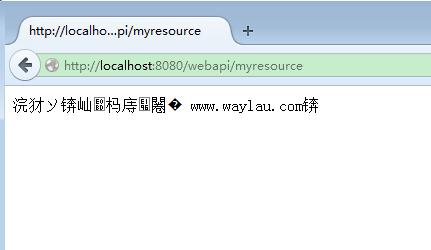
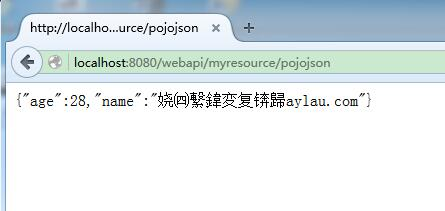
add  Encoding Format 处理编码问题

Changed region(s): [[0.0, 0.0, 1.0, 1.0]]

diff --git a/samples/encoding-format/src/main/java/com/waylau/rest/resource/MyResource.java b/samples/encoding-format/src/main/java/com/waylau/rest/resource/MyResource.java
@@ -1,0 +1,65 @@
+package com.waylau.rest.resource;
+
+import javax.ws.rs.GET;
+import javax.ws.rs.Path;
+import javax.ws.rs.Produces;
+import javax.ws.rs.core.MediaType;
+
+import com.waylau.rest.bean.MyBean;
+
+/**
+ * 根资源 (暴露在"myresource"路径)
+ * 
+ * @author waylau.com 
+ * 2015-3-1
+ */
+@Path("myresource")
+public class MyResource {
+
+	private final static String CHARSET_UTF_8 = "charset=utf-8";
+    /**
+     * 方法处理 HTTP GET 请求。返回的对象以"text/plain"媒体类型
+	 * 给客户端
+     *
+     * @return String 以 text/plain 形式响应
+     */
+    @GET
+    @Produces(MediaType.TEXT_PLAIN)
+    public String getIt() {
+        return "Got it!";
+    }
+    
+
+    /**
+     * 方法处理 HTTP GET 请求。返回的对象以"application/xml"媒体类型
+	 * 给客户端
+     *
+     * @return MyPojo 以 application/xml 形式响应
+     */
+    @GET
+    @Path("pojoxml")
+    @Produces(MediaType.APPLICATION_XML + ";" + CHARSET_UTF_8)
+    public MyBean getPojoXml() {
+    	MyBean pojo = new MyBean();
+    	pojo.setName("欢迎光临：waylau.com");
+    	pojo.setAge(28);
+        return pojo;
+    }
+    
+    /**
+     * 方法处理 HTTP GET 请求。返回的对象以"application/json"媒体类型
+	 * 给客户端
+     *
+     * @return MyPojo 以 application/json 形式响应
+     */
+    @GET
+    @Path("pojojson")
+    @Produces(MediaType.APPLICATION_JSON + ";" + CHARSET_UTF_8)
+    public MyBean getPojoJson() {
+    	MyBean pojo = new MyBean();
+    	pojo.setName("欢迎光临：waylau.com");
+    	pojo.setAge(28);
+        return pojo;
+    }
+    
+}

diff --git a/samples/encoding-format/src/main/java/com/waylau/rest/bean/MyBean.java b/samples/encoding-format/src/main/java/com/waylau/rest/bean/MyBean.java
@@ -1,0 +1,23 @@
+package com.waylau.rest.bean;
+
+import javax.xml.bind.annotation.XmlRootElement;
+
+@XmlRootElement
+public class MyBean {
+
+	private String name;
+	private int age;
+ 
+	public String getName() {
+		return name;
+	}
+	public void setName(String name) {
+		this.name = name;
+	}
+	public int getAge() {
+		return age;
+	}
+	public void setAge(int age) {
+		this.age = age;
+	}
+}

diff --git a/samples/encoding-format/src/main/java/com/waylau/rest/RestApplication.java b/samples/encoding-format/src/main/java/com/waylau/rest/RestApplication.java
@@ -1,0 +1,17 @@
+package com.waylau.rest;
+
+import org.glassfish.jersey.server.ResourceConfig;
+
+/**
+ * REST 主应用
+ * 
+ * @author waylau.com
+ * 2015年3月3日
+ */
+public class RestApplication extends ResourceConfig {
+
+	public RestApplication() {
+		//资源类所在的包路径  
+	    packages("com.waylau.rest.resource"); 
+	}
+}

diff --git a/docs/Encoding Format.md b/docs/Encoding Format.md
@@ -1,29 +1,100 @@
 Encoding Format 处理编码问题
 =========
 
+## 中文乱码
+
 一般的，我们都会将项目和代码设置为 UTF-8 编码格式，但有时候还远远不够。
 
-我们在 `servlet-container`项目的基础上，进行修改成为另外一个新项目。
+我们在 `handle-json-xml`项目的基础上，进行修改成为另外一个新项目。
 
 将  MyResource.java 改为如下：
 
-	@Path("myresource")
-	public class MyResource {
-	
-	    /**
-	     * 方法处理 HTTP GET 请求。返回的对象以"text/plain"媒体类型
-		 * 给客户端
-	     *
-	     * @return String 以 text/plain 形式响应
-	     */
-	    @GET
-	    @Produces(MediaType.TEXT_PLAIN)
-	    public String getIt() {
-	        return "你好，欢迎访问 www.waylau.com！";
-	    }
-	}
+```java
+@Path("myresource")
+public class MyResource {
+
+    /**
+     * 方法处理 HTTP GET 请求。返回的对象以"text/plain"媒体类型
+	 * 给客户端
+     *
+     * @return String 以 text/plain 形式响应
+     */
+    @GET
+    @Produces(MediaType.TEXT_PLAIN)
+    public String getIt() {
+        return "Got it!";
+    }
+    
+
+    /**
+     * 方法处理 HTTP GET 请求。返回的对象以"application/xml"媒体类型
+	 * 给客户端
+     *
+     * @return MyPojo 以 application/xml 形式响应
+     */
+    @GET
+    @Path("pojoxml")
+    @Produces(MediaType.APPLICATION_XML)
+    public MyBean getPojoXml() {
+    	MyBean pojo = new MyBean();
+    	pojo.setName("欢迎光临：waylau.com");
+    	pojo.setAge(28);
+        return pojo;
+    }
+    
+    /**
+     * 方法处理 HTTP GET 请求。返回的对象以"application/json"媒体类型
+	 * 给客户端
+     *
+     * @return MyPojo 以 application/json 形式响应
+     */
+    @GET
+    @Path("pojojson")
+    @Produces(MediaType.APPLICATION_JSON)
+    public MyBean getPojoJson() {
+    	MyBean pojo = new MyBean();
+    	pojo.setName("欢迎光临：waylau.com");
+    	pojo.setAge(28);
+        return pojo;
+    }
+    
+}
+```
+
 
 启动项目，访问浏览器 <http://localhost:8080/>，
-点击“Jersey resource”，显示如下，中文已乱。
+点击“POJO JSON” 或者 “POJO XML”，显示如下，中文已乱。
 
 ![](../images/encoding-format-01.jpg)
+
+## 问题解决
+
+在返回的数据里面，我们设置编码格式 `charset=utf-8`,关键代码如下：
+
+```java
+private final static String CHARSET_UTF_8 = "charset=utf-8";
+ 
+@GET
+@Path("pojoxml")
+@Produces(MediaType.APPLICATION_XML + ";" + CHARSET_UTF_8)
+public MyBean getPojoXml() {
+	MyBean pojo = new MyBean();
+	pojo.setName("欢迎光临：waylau.com");
+	pojo.setAge(28);
+    return pojo;
+}
+
+@GET
+@Path("pojojson")
+@Produces(MediaType.APPLICATION_JSON + ";" + CHARSET_UTF_8)
+public MyBean getPojoJson() {
+	MyBean pojo = new MyBean();
+	pojo.setName("欢迎光临：waylau.com");
+	pojo.setAge(28);
+    return pojo;
+}
+```
+
+再次访问浏览器，查看到所有的中文显示都正常了。
+
+![](../images/encoding-format-02.jpg)

diff --git a/SUMMARY.md b/SUMMARY.md
@@ -8,6 +8,7 @@ This is the summary of my book.
 * [Rapid Development 快速开发](docs/Rapid Development.md)
 * [Custom ResourceConfig 自定义资源配置](docs/Custom ResourceConfig.md)
 * [Handle JSON and XML 处理 JSON 和 XML](docs/Handle JSON and XML.md)
+* [Encoding Format 处理编码问题](docs/Encoding Format.md)
 * [Java SE Deployment Environments 使用 Java SE 部署环境](docs/Java SE Deployment Environments.md)
 * [Simulation of CURD 模拟CURD操作](docs/Simulation of CURD.md)
 * [Parameter Annotations 常用参数注解](docs/Parameter Annotations.md)
